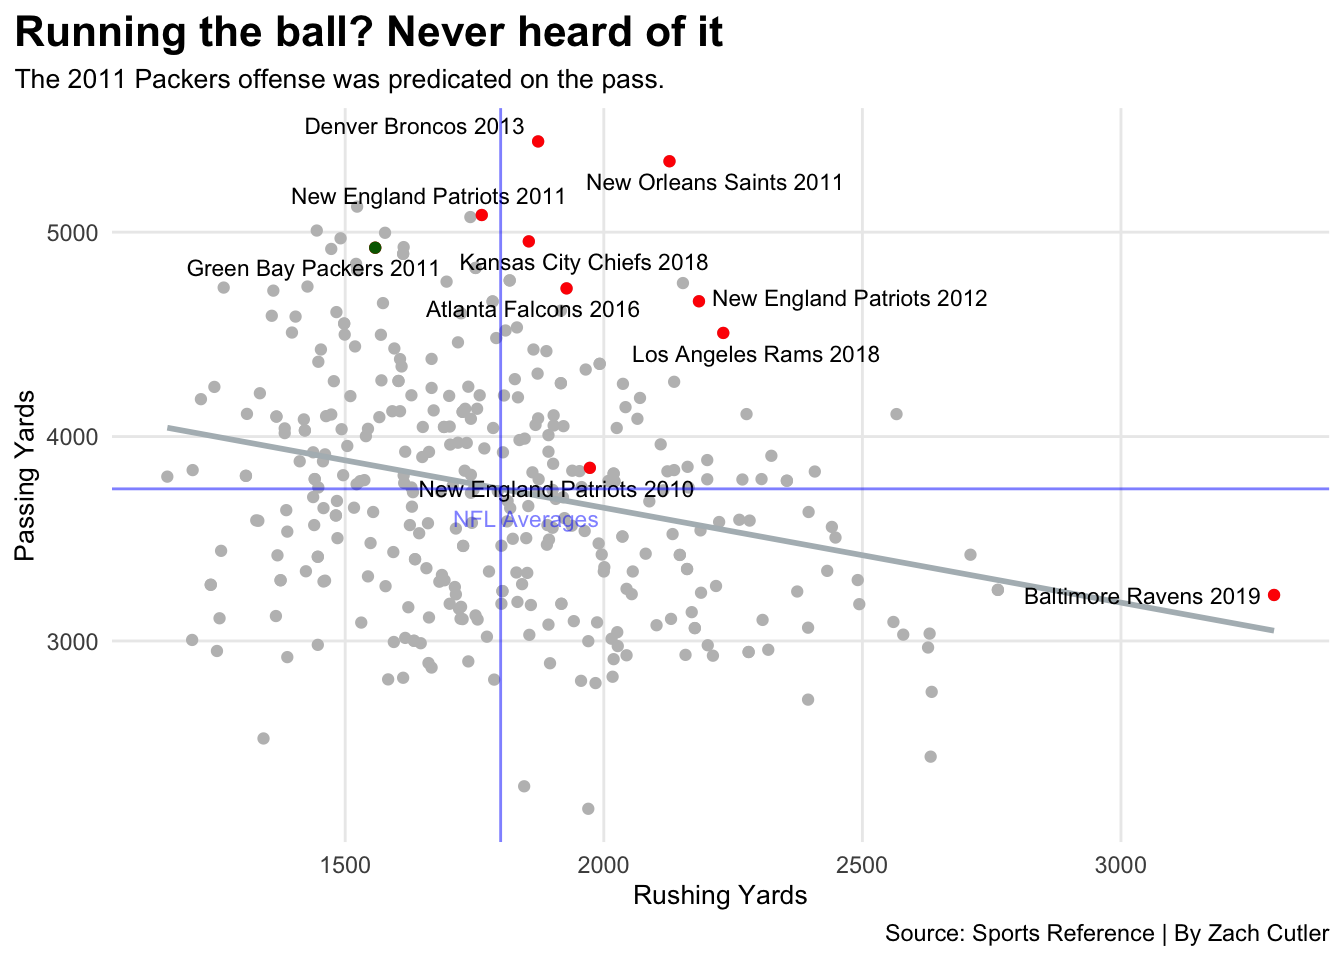
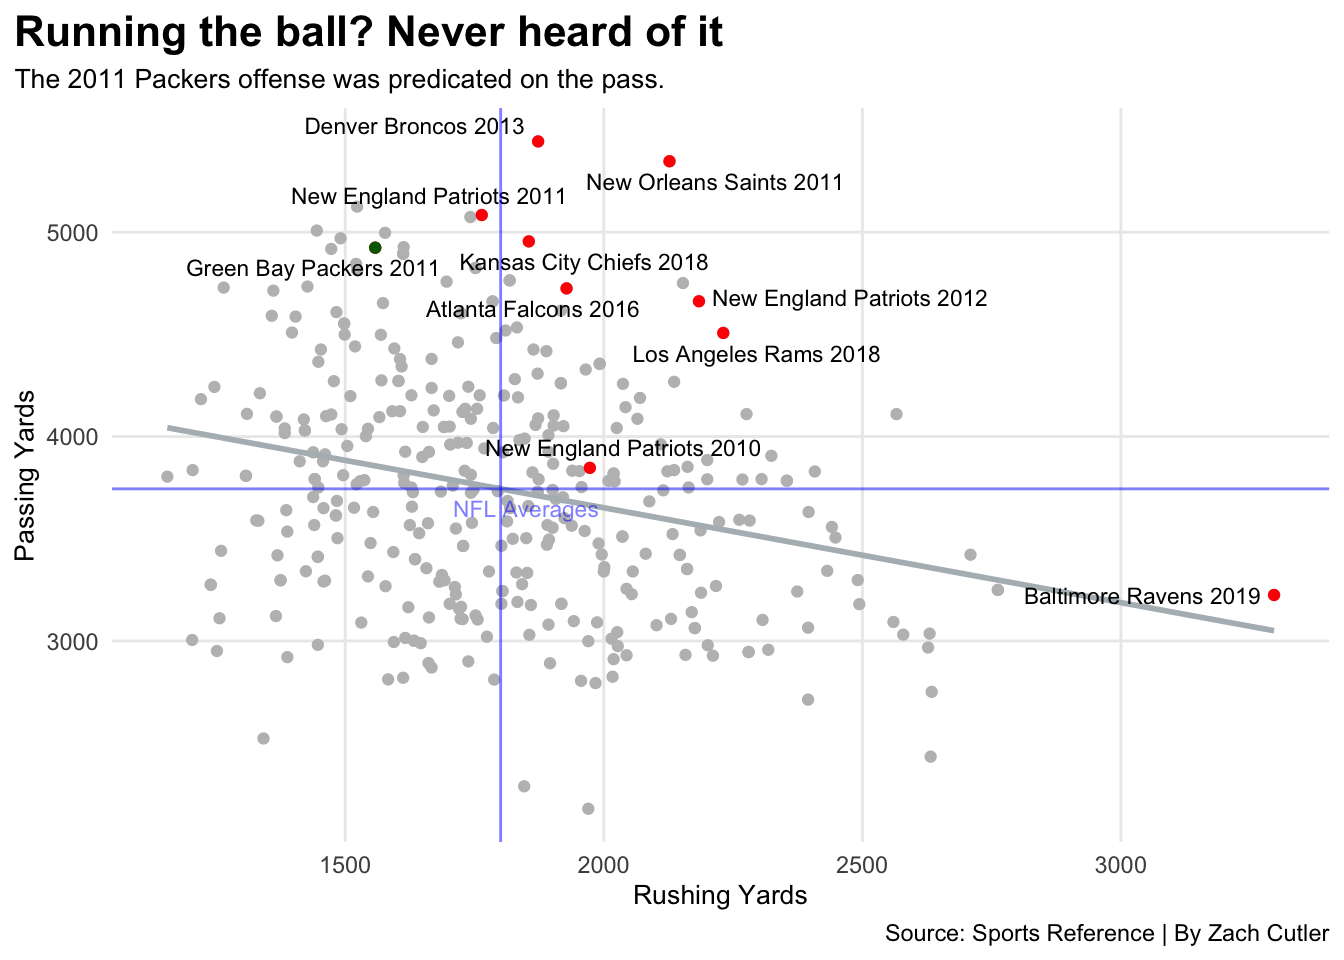
THis is it
Im done!

diff --git a/posts/where-did-the-2011-packers-rank-among-the-best-offenses-of-the-2010s/index.html b/posts/where-did-the-2011-packers-rank-among-the-best-offenses-of-the-2010s/index.html
@@ -477,7 +477,7 @@ code span.wa { color: #60a0b0; font-weight: bold; font-style: italic; } /* Warni
 <span id="cb4-7"><a href="#cb4-7" aria-hidden="true" tabindex="-1"></a>  ) <span class="sc">+</span></span>
 <span id="cb4-8"><a href="#cb4-8" aria-hidden="true" tabindex="-1"></a>  <span class="fu">geom_vline</span>(<span class="at">xintercept =</span><span class="fl">1800.56</span>, <span class="at">color=</span><span class="st">"blue"</span>, <span class="at">alpha=</span>.<span class="dv">5</span>) <span class="sc">+</span></span>
 <span id="cb4-9"><a href="#cb4-9" aria-hidden="true" tabindex="-1"></a>  <span class="fu">geom_hline</span>(<span class="at">yintercept =</span> <span class="fl">3744.188</span>  , <span class="at">color=</span><span class="st">"blue"</span>,<span class="at">alpha=</span>.<span class="dv">5</span>) <span class="sc">+</span></span>
-<span id="cb4-10"><a href="#cb4-10" aria-hidden="true" tabindex="-1"></a>  <span class="fu">geom_text</span>(<span class="fu">aes</span>(<span class="at">x=</span><span class="dv">1850</span>, <span class="at">y=</span><span class="dv">3600</span>), <span class="at">label=</span><span class="st">"NFL Averages"</span>, <span class="at">color=</span><span class="st">"blue"</span>, <span class="at">alpha=</span>.<span class="dv">5</span>, <span class="at">size=</span><span class="dv">3</span>)<span class="sc">+</span></span>
+<span id="cb4-10"><a href="#cb4-10" aria-hidden="true" tabindex="-1"></a>  <span class="fu">geom_text</span>(<span class="fu">aes</span>(<span class="at">x=</span><span class="dv">1850</span>, <span class="at">y=</span><span class="dv">3650</span>), <span class="at">label=</span><span class="st">"NFL Averages"</span>, <span class="at">color=</span><span class="st">"blue"</span>, <span class="at">alpha=</span>.<span class="dv">5</span>, <span class="at">size=</span><span class="dv">3</span>)<span class="sc">+</span></span>
 <span id="cb4-11"><a href="#cb4-11" aria-hidden="true" tabindex="-1"></a><span class="fu">theme_minimal</span>() <span class="sc">+</span></span>
 <span id="cb4-12"><a href="#cb4-12" aria-hidden="true" tabindex="-1"></a>   <span class="fu">theme</span>(</span>
 <span id="cb4-13"><a href="#cb4-13" aria-hidden="true" tabindex="-1"></a>    <span class="at">plot.title =</span> <span class="fu">element_text</span>(<span class="at">size =</span> <span class="dv">16</span>, <span class="at">face =</span> <span class="st">"bold"</span>),</span>

diff --git a/index.html b/index.html
@@ -164,7 +164,7 @@ ul.task-list li input[type="checkbox"] {
 
 <div class="quarto-listing quarto-listing-container-default" id="listing-listing">
 <div class="list quarto-listing-default">
-<div class="quarto-post image-right" data-index="0" data-categories="football,nfl,analysis" data-listing-date-sort="1669788000000" data-listing-file-modified-sort="1670019406982" data-listing-reading-time-sort="11.37">
+<div class="quarto-post image-right" data-index="0" data-categories="football,nfl,analysis" data-listing-date-sort="1669788000000" data-listing-file-modified-sort="1670019682922" data-listing-reading-time-sort="11.37">
 <div class="thumbnail">
 <p><a href="./posts/where-did-the-2011-packers-rank-among-the-best-offenses-of-the-2010s/index.html"> <img src="./posts/where-did-the-2011-packers-rank-among-the-best-offenses-of-the-2010s/image1.png" class="thumnail-image"> </a></p>
 </div>
